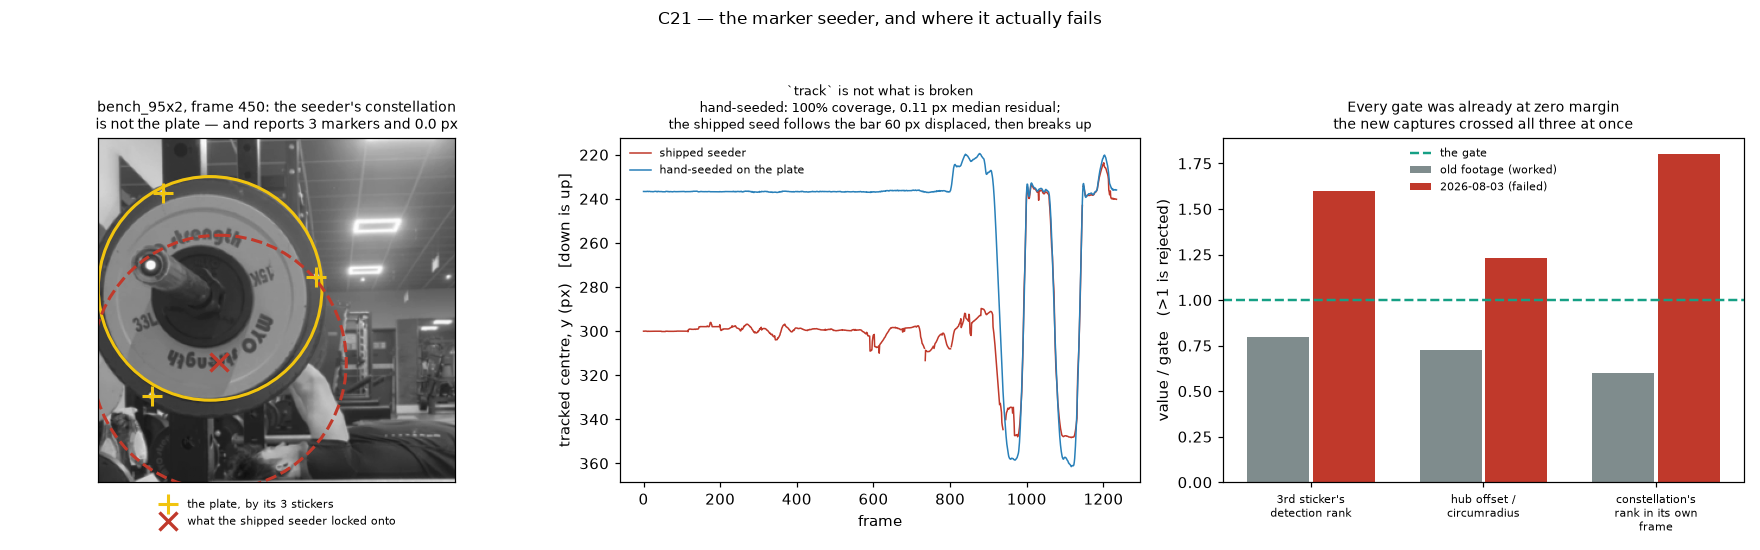
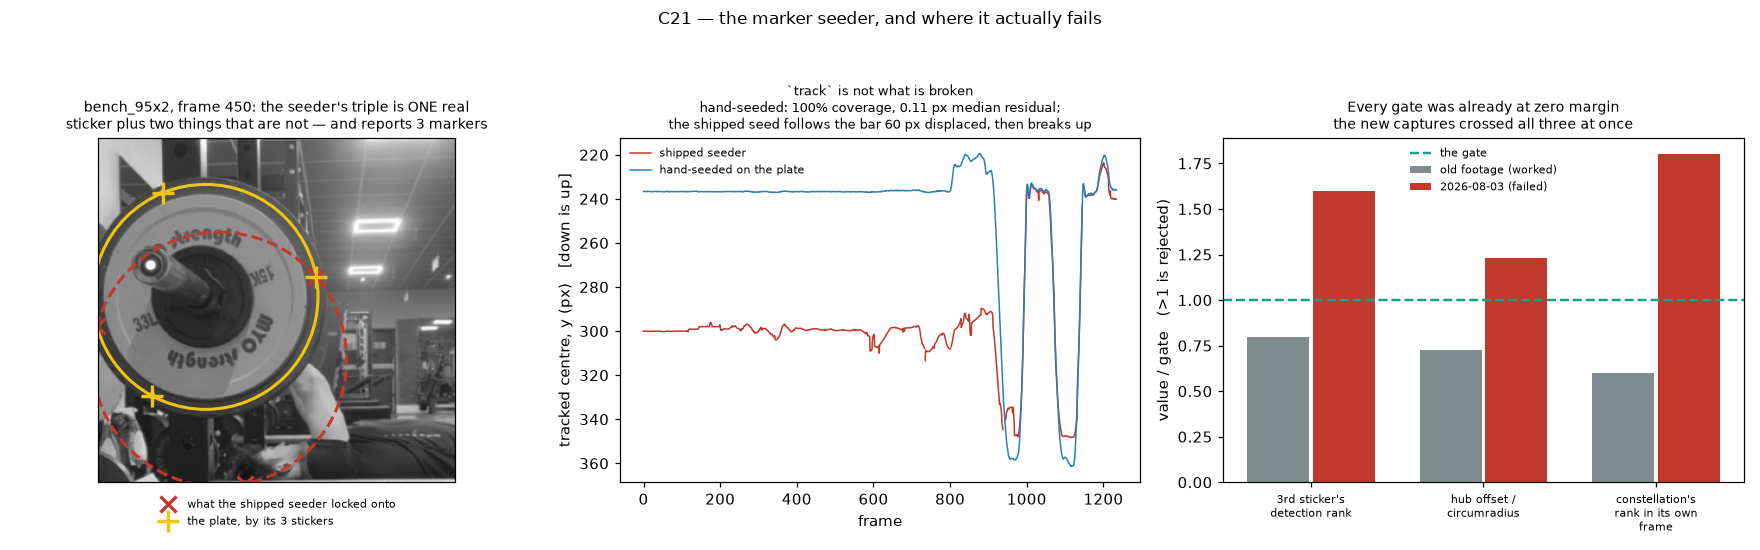
C21: draw analysis/39's constellations as true circumcircles
The owner caught the panel twice. First it drew the plate as a fixed-size
marker, so the plate appeared far smaller than it is. Then it drew a circle of
the tracker's `circumradius` about the centroid — and `circumradius` is the
MEAN distance from the centroid, not a circumradius, so for a non-equilateral
triple no circle centred there passes through the markers. On bench_95x2 frame
450 the three stickers sit at 89.8, 89.8 and 102.9 px from the centroid.

New `plot._circumcircle` draws the circle through the three markers, which
passes through them by construction (verified: vertex distances 94.71 / 94.71 /
94.71).

Two things the fix surfaced and both are now on the figure. That 13 px spread
in vertex radius is the error term in the module's load-bearing assumption —
three equally spaced points project to a triangle whose centroid is the
projected centre — and is what calibration_report calls spacing_bias. And the
seeder's triple SHARES a vertex with the plate: it is one real sticker plus two
things that are not, one of them outside the frame. That is why it survives
every check the module runs.

No change to markers.py or to any measurement. test_markers 47 passed.

diff --git a/src/plot.py b/src/plot.py
@@ -873,24 +873,53 @@ def plot_b3_oracle(rows: list[dict], rom_trace: tuple, rom_bound: float,
     return fig
 
 
+def _circumcircle(p: np.ndarray) -> tuple[np.ndarray, float]:
+    """Centre and radius of the circle through three (y, x) points.
+
+    The tracker's `circumradius` is the MEAN distance from the centroid, which
+    is not a circumradius unless the triangle is equilateral — so a circle
+    drawn with it does not pass through the markers. For a figure whose whole
+    job is to show which object is being tracked, that difference is the
+    difference between a legible panel and a misleading one.
+    """
+    (y1, x1), (y2, x2), (y3, x3) = p
+    d = 2.0 * (x1 * (y2 - y3) + x2 * (y3 - y1) + x3 * (y1 - y2))
+    if abs(d) < 1e-9:                      # collinear: fall back on the centroid
+        c = p.mean(axis=0)
+        return c, float(np.hypot(*(p - c).T).mean())
+    s1, s2, s3 = x1 * x1 + y1 * y1, x2 * x2 + y2 * y2, x3 * x3 + y3 * y3
+    ux = (s1 * (y2 - y3) + s2 * (y3 - y1) + s3 * (y1 - y2)) / d
+    uy = (s1 * (x3 - x2) + s2 * (x1 - x3) + s3 * (x2 - x1)) / d
+    c = np.array([uy, ux])
+    return c, float(np.hypot(uy - y1, ux - x1))
+
+
 def plot_marker_seeding(shipped: dict, handseeded: dict, gates: list[dict],
                         frames: dict):
     """C21 — why the marker tracker fails on the 2026-08-03 paired captures.
 
     `shipped` and `handseeded` are `markers.track` outputs on `bench_95x2`.
     `gates` is one dict per gate with `name`, `old`, `new`, `limit` and `unit`.
-    `frames` describes one illustrative frame: `image`, `shipped` and `true`
-    centres as (y, x), their radii `shipped_r` and `true_r` in pixels, and
-    `true_rim` (3, 2) for the sticker positions.
+    `frames` describes one illustrative frame: `image`, and `true_rim` /
+    `shipped_rim`, each (3, 2) marker positions in (y, x).
 
-    **Both constellations are drawn as circles at their own measured radius.**
-    The first version of this panel drew them as fixed-size markers, which made
-    the plate look far smaller than it is and invited the reading that the
-    hand-seeded constellation was not the plate. It is: the three crosses fall
-    on the three rim stickers and the circle through them is the sticker
-    circle. A figure that misrepresents the scale of the thing being tracked is
-    worse than no figure, because the whole claim here is about which object
-    the tracker locked onto.
+    **Each constellation is drawn as the circle through its own three markers**
+    — `_circumcircle`, not the centroid and mean radius the tracker carries as
+    `circumradius`. Two earlier versions of this panel got this wrong and both
+    were caught by the owner. The first drew fixed-size markers, so the plate
+    appeared far smaller than it is. The second drew a circle of the mean
+    radius about the centroid, which visibly misses the markers: on
+    `bench_95x2` frame 450 the three stickers sit at 89.8, 89.8 and 102.9 px
+    from the centroid, so no circle centred there passes through all three.
+
+    That spread is not a drawing artefact and it is worth reading off the
+    figure. The module's load-bearing assumption is that three equally spaced
+    points on a circle project, under weak perspective, to a triangle whose
+    centroid is the projected centre. A 13 px spread in vertex radius is that
+    assumption's error term made visible — `calibration_report` measures it as
+    `spacing_bias`. The circumcircle passes through the markers by
+    construction, so it shows where the plate is without asserting anything
+    about that bias.
 
     Three panels because the finding has three parts and any one alone
     misleads. The first is the failure as it actually looks — not "noisy", but
@@ -904,14 +933,21 @@ def plot_marker_seeding(shipped: dict, handseeded: dict, gates: list[dict],
     # 1 --- the failure: a confident lock on the bench -------------------------
     ax = axes[0]
     ax.imshow(frames["image"], cmap="gray")
-    ax.add_patch(plt.Circle(frames["true"][::-1], frames["true_r"], fill=False,
-                            color="#f1c40f", lw=2.0))
-    ax.plot(frames["true_rim"][:, 1], frames["true_rim"][:, 0], "+",
-            color="#f1c40f", ms=13, mew=2.0, label="the plate, by its 3 stickers")
-    ax.add_patch(plt.Circle(frames["shipped"][::-1], frames["shipped_r"],
-                            fill=False, color="#c0392b", lw=2.0, ls="--"))
-    ax.plot(*frames["shipped"][::-1], "x", color="#c0392b", ms=12, mew=2.2,
-            label="what the shipped seeder locked onto")
+    # Shipped first so the plate's markers draw on top: the two constellations
+    # SHARE a vertex — the seeder's triple is one real sticker plus two things
+    # that are not stickers, one of them outside the frame — and the shared
+    # cross would otherwise be hidden under the wrong one.
+    for key, colour, style, marker, size, label in (
+            ("shipped_rim", "#c0392b", "--", "x", 11,
+             "what the shipped seeder locked onto"),
+            ("true_rim", "#f1c40f", "-", "+", 15,
+             "the plate, by its 3 stickers")):
+        rim = np.asarray(frames[key], float)
+        centre, radius = _circumcircle(rim)
+        ax.add_patch(plt.Circle(centre[::-1], radius, fill=False,
+                                color=colour, lw=2.0, ls=style))
+        ax.plot(rim[:, 1], rim[:, 0], marker, color=colour, ms=size, mew=2.2,
+                label=label)
     if "zoom" in frames:                      # (y0, y1, x0, x1)
         y0, y1, x0, x1 = frames["zoom"]
         ax.set_xlim(x0, x1)
@@ -920,8 +956,8 @@ def plot_marker_seeding(shipped: dict, handseeded: dict, gates: list[dict],
     ax.set_yticks([])
     ax.legend(fontsize=7, loc="upper center", bbox_to_anchor=(0.5, -0.02),
               frameon=False)
-    ax.set_title("bench_95x2, frame 450: the seeder's constellation\n"
-                 "is not the plate — and reports 3 markers and 0.0 px",
+    ax.set_title("bench_95x2, frame 450: the seeder's triple is ONE real\n"
+                 "sticker plus two things that are not — and reports 3 markers",
                  fontsize=9)
 
     # 2 --- the control: same tracker, correct seed ----------------------------

diff --git a/analysis/README.md b/analysis/README.md
@@ -1375,11 +1375,18 @@ against a 29.5 cm rep.
 
 **Panel 1 — the failure is confident, not noisy.** The seeder's constellation at
 frame 450 is not the plate, and it reports three markers matched at a sub-pixel
-residual while being wrong. Both constellations are drawn as circles at their
-own measured radius; the first version of this panel used fixed-size markers,
-which drew the plate far smaller than it is and read as though the hand-seeded
-constellation were not the plate either. It is — the three crosses fall on the
-three rim stickers. Caught by the owner, 2026-08-03. A rigid triple of gym fixtures fits a rigid model
+residual while being wrong. **The seeder's triple is one REAL sticker plus two
+things that are not**, one of them outside the frame — which is why it can look
+plausible to every check the module runs.
+
+Each constellation is drawn as the circle through its own three markers. Two
+earlier versions of this panel were wrong and the owner caught both: the first
+used fixed-size markers, drawing the plate far smaller than it is; the second
+used the tracker's `circumradius`, which is the MEAN distance from the
+centroid, so the circle visibly missed the markers. On frame 450 the three
+stickers sit at 89.8, 89.8 and 102.9 px from the centroid — that 13 px spread
+is the error term in the module's equal-spacing assumption, made visible, and
+it is what `calibration_report` reports as `spacing_bias`. A rigid triple of gym fixtures fits a rigid model
 exactly, so no quality number the module computes can see this. Only the fact
 that furniture does not MOVE distinguishes it, which is what `static_points`
 now measures.
